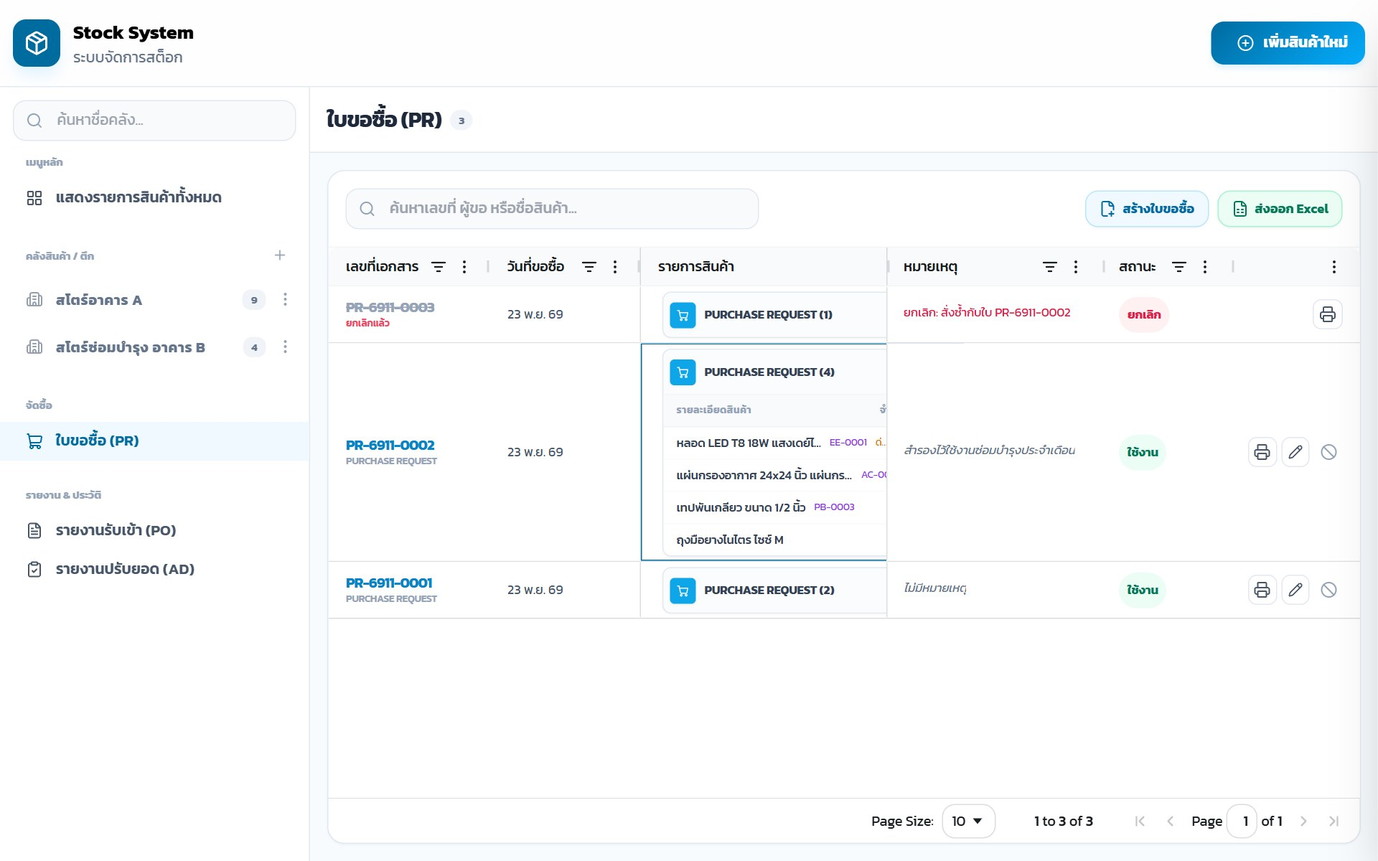
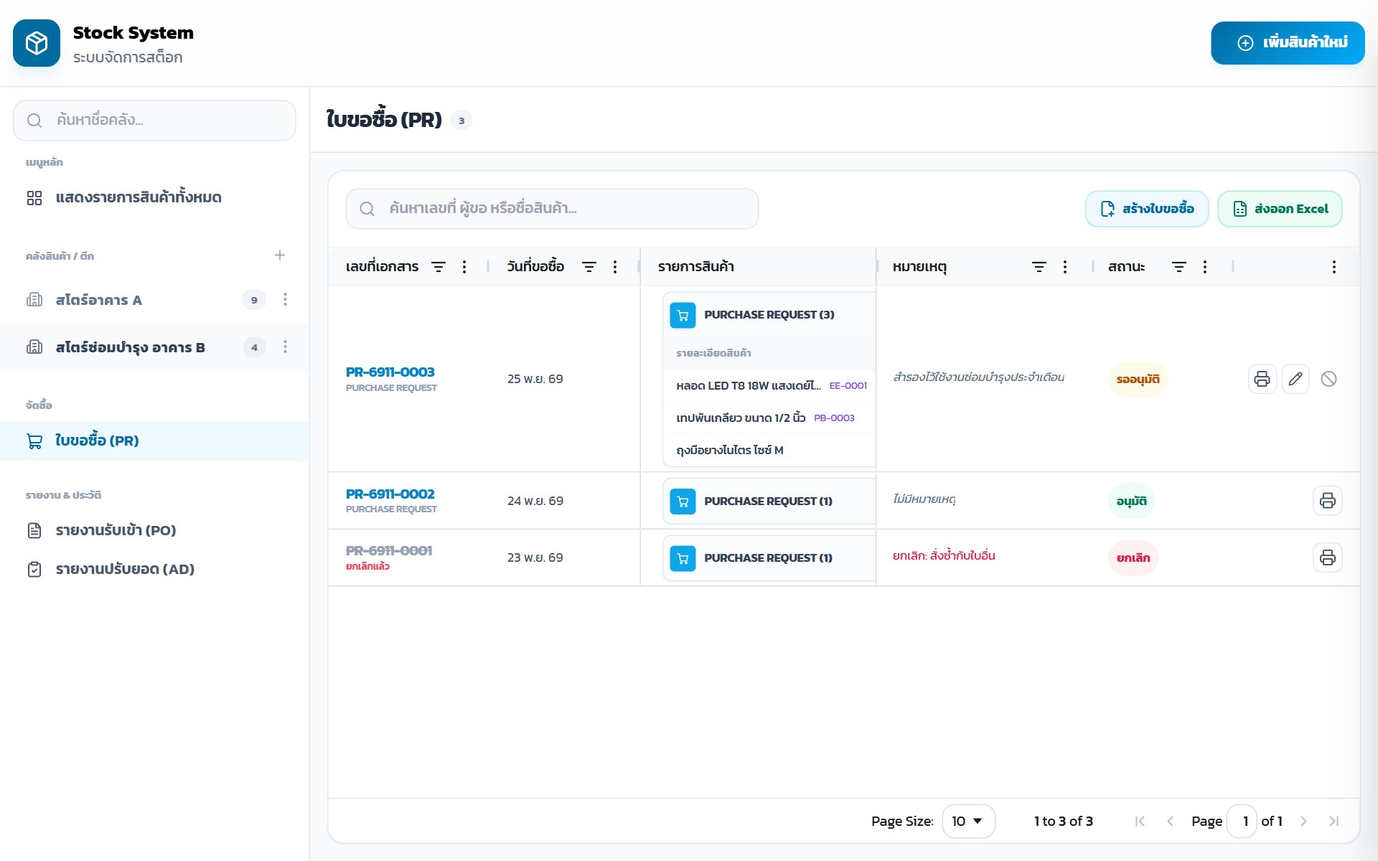
คู่มือใบขอซื้อ (PR): ลงนาม สถานะ รออนุมัติ/อนุมัติ/ยกเลิก การล็อกหลังอนุมัติ และมือถือ

diff --git a/tutorial.php b/tutorial.php
@@ -1278,7 +1278,7 @@ const MODULES = [
     },
     {
         id: 'stock_pr', title: 'ใบขอซื้อ (PR)', perm: 'stock_manage', href: 'stock.php',
-        intro: 'ออก <b>ใบขออนุมัติจัดซื้อ</b> จากสินค้าในสต็อก (หรือของที่ยังไม่มีในสต็อก) ระบบออกเลขที่ <b>PR-ปีเดือน-ลำดับ</b> ให้ เช่น PR-6911-0001 (ปี พ.ศ. 69 เดือน 11) แล้วพิมพ์ไปให้ผู้อนุมัติลงนาม',
+        intro: 'ออก <b>ใบขออนุมัติจัดซื้อ</b> จากสินค้าในสต็อก (หรือของที่ยังไม่มีในสต็อก) ระบบออกเลขที่ <b>PR-ปีเดือน-ลำดับ</b> ให้ เช่น PR-6911-0001 (ปี พ.ศ. 69 เดือน 11) ผู้ขอและผู้อนุมัติ<b>ลงนามในระบบ</b>ได้ หรือพิมพ์ไปเซ็นบนกระดาษ',
         parts: [
         { title: '1. เลือกสินค้าที่จะขอซื้อ', shot: 'stock_select', steps: [
             { m: 1, t: 'ที่ <b>แสดงรายการสินค้าทั้งหมด</b> หรือคลังใดก็ได้ ติ๊ก <b>วงกลมหน้าสินค้า</b> ที่ต้องการ — สินค้าเดียวกันที่ติ๊กจากหลายคลังจะรวมเป็นบรรทัดเดียว' },
@@ -1292,39 +1292,63 @@ const MODULES = [
             { m: 4, t: 'รายการ <b>นอกสต็อก</b> (การ์ดสีเหลือง) — แก้ชื่อ รหัส หน่วย จำนวนได้ในการ์ด' },
             { m: 5, t: '<b>เพิ่มรายการ</b> — เลือกแท็บ <b>สินค้าในสต็อก</b> (ของที่มีในระบบ) หรือ <b>นอกสต็อก</b> (ของที่ยังไม่มีในระบบ: กรอกชื่อรายการ (จำเป็น) รหัส หน่วย จำนวน แล้วกด <span class="kbd">+ เพิ่ม</span> หรือ Enter)' },
             { m: 6, t: 'แท็บสินค้าในสต็อก: <b>พิมพ์รหัสหรือชื่อ</b> แล้วกดรายการที่ต้องการ (หรือกด Enter เลือกรายการแรก) — เพิ่มต่อได้หลายรายการ' },
-            { m: 7, t: '<b>ผู้ขอซื้อ/ขอจ้าง</b> — ระบบเติมชื่อที่ใช้ล่าสุดให้ แก้ได้' },
+            { m: 7, t: '<b>ผู้ขอซื้อ/ขอจ้าง</b> — กรอก<b>ชื่อ-นามสกุล</b> (ระบบเติมชื่อที่ใช้ล่าสุดให้ แก้ได้)' },
             { m: 8, t: '<b>ผู้อนุมัติ</b> — เลือกจากรายชื่อที่ผู้ดูแลระบบตั้งไว้ (มีคนเดียวระบบเลือกให้ หลายคนเลือกคนล่าสุดที่ใช้) หรือ <b>ไม่ระบุ</b> · ช่องนี้ไม่แสดงถ้ายังไม่ได้ตั้งผู้อนุมัติ' },
-            { m: 9, t: 'ใส่หมายเหตุ (ถ้ามี) แล้วกด <span class="kbd">บันทึก</span> — ระบบออกเลขที่ และพิมพ์ได้จากเมนูใบขอซื้อ' }
+            { m: 9, t: 'ใส่หมายเหตุ (ถ้ามี) แล้วกด <span class="kbd">บันทึก</span> — ระบบออกเลขที่ สถานะเป็น <b>รออนุมัติ</b> เปิดใบเพื่อลงนามหรือพิมพ์ได้จากเมนูใบขอซื้อ' }
         ] },
-        { title: '3. รายการใบขอซื้อ — พิมพ์ / แก้ไข / ยกเลิก', shot: 'stock_pr_list', steps: [
+        { title: '3. รายการใบขอซื้อ และสถานะ', shot: 'stock_pr_list', steps: [
             { m: 1, t: 'เมนู <b>จัดซื้อ → ใบขอซื้อ (PR)</b>' },
             { m: 2, t: '<span class="kbd">สร้างใบขอซื้อ</span> — ไปที่รายการสินค้าเพื่อเลือก' },
-            { m: 3, t: '<b>กรองที่หัวคอลัมน์</b> — กดไอคอนกรอง (≡) ที่หัวคอลัมน์ เช่น วันที่ขอซื้อ (วันที่ / ช่วงวันที่), รายการสินค้า (รหัส/ชื่อ), ผู้ขอซื้อ, สถานะ (ใช้งาน / ยกเลิก) · กดชื่อคอลัมน์เพื่อเรียงลำดับ · ช่องค้นหาด้านบนค้นได้ทั้งเลขที่ ผู้ขอ และชื่อสินค้า' },
+            { m: 3, t: '<b>กรองที่หัวคอลัมน์</b> — กดไอคอนกรอง (≡) ที่หัวคอลัมน์ เช่น วันที่ขอซื้อ (วันที่ / ช่วงวันที่), รายการสินค้า (รหัส/ชื่อ), ผู้ขอซื้อ, สถานะ (รออนุมัติ / อนุมัติ / ยกเลิก) · กดชื่อคอลัมน์เพื่อเรียงลำดับ · ช่องค้นหาด้านบนค้นได้ทั้งเลขที่ ผู้ขอ และชื่อสินค้า' },
             { m: 4, t: 'กดแถบ <b>PURCHASE REQUEST (n)</b> เพื่อดูรายการสินค้าและจำนวนที่ขอในใบนั้น' },
-            { m: 5, t: '<b>🖨 พิมพ์</b> — เปิดใบพิมพ์ในแท็บใหม่และขึ้นหน้าต่างสั่งพิมพ์ทันที · <b>✎ แก้ไข</b> — แก้วันที่ ผู้ขอ ผู้อนุมัติ หมายเหตุ เพิ่ม/เอารายการออก (ในสต็อกและนอกสต็อก) แก้จำนวน — เลขที่เดิม · <b>⊘ ยกเลิก</b> — ต้องระบุเหตุผล' },
-            { m: 6, t: 'ใบที่ยกเลิก — เลขที่ขีดฆ่า สถานะ <b>ยกเลิก</b> และแสดง <b>ยกเลิก: เหตุผล</b> ในช่องหมายเหตุ (ยังพิมพ์ได้ มีตรา "ยกเลิก")' },
+            { m: 5, t: '<b>🖨</b> — เปิดใบในแท็บใหม่ เลือกเองว่าจะ<b>ลงนาม</b>หรือ<b>พิมพ์</b> (หัวข้อ 4) · <b>✎ แก้ไข</b> — แก้วันที่ ผู้ขอ ผู้อนุมัติ หมายเหตุ และรายการ เลขที่เดิม · <b>⊘ ยกเลิก</b> — ต้องระบุเหตุผล' },
+            { m: 6, t: '<b>สถานะ</b> — <span class="text-amber-700 font-semibold">รออนุมัติ</span> = ผู้อนุมัติยังไม่ลงนาม · <span class="text-emerald-700 font-semibold">อนุมัติ</span> = ผู้อนุมัติลงนามแล้ว · <span class="text-rose-600 font-semibold">ยกเลิก</span> = เลขที่ขีดฆ่า แสดงเหตุผลในช่องหมายเหตุ (ยังพิมพ์ได้ มีตรา "ยกเลิก")' },
+            { m: 8, t: 'ใบที่<b>อนุมัติแล้ว แก้ไขและยกเลิกไม่ได้</b> เหลือปุ่มเปิดใบอย่างเดียว' },
             { m: 7, t: '<span class="kbd">ส่งออก Excel</span> — รายการใบขอซื้อตามตัวกรอง (รายการสินค้า สถานะ และเหตุผลที่ยกเลิก)' }
         ] },
         { title: 'บนมือถือ', shot: 'stock_pr_m', steps: [
             { m: 1, t: 'กด <b>ชื่อหน้า ▾</b> แล้วเลือก <b>ใบขอซื้อ (PR)</b> — ปุ่มข้างช่องค้นหาคือ สร้างใบขอซื้อ และส่งออก Excel' },
-            { m: 2, t: 'แต่ละใบเป็นการ์ด แสดงรายการสินค้าและจำนวนที่ขอ' },
-            { m: 3, t: '<b>✎ แก้ไข</b> · <b>⊘ ยกเลิก</b> · <b>🖨 พิมพ์</b> (เปิดใบพิมพ์ในแท็บใหม่)' },
-            { m: 4, t: 'ใบที่ยกเลิก — สีจาง เลขที่ขีดฆ่า และแสดงเหตุผลที่ยกเลิก' }
+            { m: 2, t: '<b>สถานะ</b> — รออนุมัติ / อนุมัติ / ยกเลิก' },
+            { m: 3, t: 'รายการสินค้าและจำนวนที่ขอ' },
+            { m: 4, t: '<b>✎ แก้ไข</b> · <b>⊘ ยกเลิก</b> (เฉพาะใบที่รออนุมัติ) · <b>🖨</b> เปิดใบเพื่อลงนามหรือพิมพ์' }
         ] },
-        { title: '4. ใบพิมพ์', shot: 'stock_pr_print', steps: [
+        { title: '4. เปิดใบ — เลือกลงนามหรือพิมพ์', shot: 'stock_pr_open', steps: [
+            { m: 1, t: '<b>สถานะ</b>ของใบ' },
+            { m: 2, t: '<span class="kbd">เซ็นผู้ขอซื้อ</span>' },
+            { m: 3, t: '<span class="kbd">เซ็นผู้อนุมัติ</span> — ปุ่มเซ็นแสดงเฉพาะช่องที่คุณมีสิทธิ์และยังไม่ได้เซ็น' },
+            { m: 4, t: '<span class="kbd">พิมพ์</span> — เปิดหน้าต่างสั่งพิมพ์' },
+            { m: 5, t: 'กด <span class="kbd">ลงนาม</span> ในช่องลงนามท้ายใบก็ได้' }
+        ] },
+        { title: '5. ลงลายเซ็น', shot: 'stock_pr_sign', steps: [
+            { m: 1, t: '<b>ชื่อ-นามสกุล</b> — ต้องมีทั้งชื่อและนามสกุล (เว้นวรรคคั่น) · ผู้อนุมัติที่บัญชีมีนามสกุลแล้ว ช่องนี้ล็อกเป็นชื่อในบัญชี' },
+            { m: 2, t: '<b>เซ็น</b>ด้วยนิ้วหรือเมาส์' },
+            { m: 3, t: '<span class="kbd">ล้าง</span> — เซ็นใหม่' },
+            { m: 4, t: '<span class="kbd">บันทึกลายเซ็น</span> — ลายเซ็นและวันที่ขึ้นในใบทันที ผู้อนุมัติเซ็นแล้ว สถานะเป็น <b>อนุมัติ</b>' }
+        ] },
+        { title: '6. ใบที่ลงนามแล้ว', shot: 'stock_pr_print', steps: [
             { m: 1, t: '<b>เลขที่เอกสาร</b> PR-ปีเดือน-ลำดับ' },
             { m: 2, t: 'วันที่เอกสาร จัดส่งภายในวันที่ ผู้ขอซื้อ และจำนวนรายการ' },
             { m: 3, t: '<b>ตาราง</b> รหัสสินค้า รายการ จำนวน หน่วย หมายเหตุ — มีแถวว่างเติมให้เต็มหน้า A4 (รายการนอกสต็อกไม่มีรหัส)' },
-            { m: 4, t: '<b>ช่องลงนาม</b> ผู้ขอซื้อ/ขอจ้าง และผู้อนุมัติ พร้อมชื่อ อยู่ท้ายกระดาษ — ลายเซ็นและวันที่เว้นไว้ให้เซ็น (ไม่ระบุผู้อนุมัติ = เส้นประ)' },
-            { m: 5, t: '<span class="kbd">พิมพ์</span> — กดซ้ำได้ ถ้าปิดหน้าต่างสั่งพิมพ์ไปแล้ว' }
+            { m: 4, t: '<b>ช่องลงนาม</b> — ลายเซ็น ชื่อ-นามสกุล และวันที่ลงนาม (ยังไม่เซ็น = เว้นไว้ให้เซ็นบนกระดาษ)' },
+            { m: 5, t: '<b>อนุมัติ</b> — แก้ไขและยกเลิกไม่ได้แล้ว' },
+            { m: 6, t: '<span class="kbd">ลบลายเซ็น</span> — ลบลายเซ็นผู้อนุมัติ ใบจะกลับเป็น <b>รออนุมัติ</b> (เฉพาะผู้ที่เซ็น หรือ Super Admin)' }
+        ] },
+        { title: 'เปิดใบบนมือถือ', shot: 'stock_pr_sign_m', steps: [
+            { m: 1, t: '<b>สถานะ</b>ของใบ' },
+            { m: 2, t: 'รายการแสดงเป็นการ์ด — งานพิมพ์ยังเป็นแบบฟอร์ม A4' },
+            { m: 3, t: '<b>เซ็นผู้ขอซื้อ / เซ็นผู้อนุมัติ / พิมพ์</b> อยู่ล่างจอ' }
         ] }],
         table: { title: 'ใครทำอะไรได้', rows: [
             ['สร้างใบขอซื้อ', 'ทุกคนที่เข้าเมนูจัดการสต็อกได้ ยกเว้นตำแหน่งช่าง'],
-            ['แก้ไข / ยกเลิกใบ', 'ผู้สร้างใบ หรือผู้ดูแลระบบ (เฉพาะใบที่ยังไม่ยกเลิก)'],
+            ['แก้ไข / ยกเลิกใบ', 'ผู้สร้างใบ หรือผู้ดูแลระบบ — เฉพาะใบที่ <b>รออนุมัติ</b>'],
+            ['ลงนามผู้ขอซื้อ', 'ผู้สร้างใบ หรือผู้ดูแลระบบ (ตำแหน่งช่างไม่ได้)'],
+            ['ลงนามผู้อนุมัติ', 'คนที่ระบุในใบ · ใบไม่ระบุ = คนใดก็ได้ในรายชื่อผู้อนุมัติ PR · Super Admin เซ็นได้ แต่ชื่อผู้อนุมัติในใบเปลี่ยนเป็นผู้ที่เซ็น'],
+            ['ลบลายเซ็น', 'ผู้ที่เซ็นเอง หรือ Super Admin (อนุมัติแล้วต้องลบลายเซ็นผู้อนุมัติก่อน จึงลบของผู้ขอได้)'],
             ['ดู / พิมพ์ / ส่งออก Excel', 'ทุกคนที่เข้าเมนูจัดการสต็อกได้ รวมถึงตำแหน่งช่าง'],
             ['กำหนดรายชื่อผู้อนุมัติ', 'Super Admin — ตั้งค่าข้อมูล → อะไหล่และวัสดุ → ผู้อนุมัติ PR']
         ] },
         tips: ['ชื่อผู้อนุมัติเก็บไว้กับใบ — เปลี่ยนรายชื่อในตั้งค่าภายหลัง ใบที่บันทึกแล้วไม่เปลี่ยน · ใบเก่าที่ไม่เคยเลือกจะแสดงชื่อเมื่อตั้งผู้อนุมัติไว้คนเดียว ถ้ามีหลายคนให้กดแก้ไขใบแล้วเลือก',
+               'แก้ไขใบที่ผู้ขอเซ็นไว้แล้ว ลายเซ็นจะถูกล้าง ต้องเซ็นใหม่ · ใบที่ถูกแก้ระหว่างเปิดหน้าเซ็นค้างไว้ ต้องรีเฟรชก่อนลงนาม',
                'แก้ไขใบแล้ว <b>เลขที่เดิม</b> — ถ้าต้องการเลขใหม่ ให้ยกเลิกใบเดิม (ระบุเหตุผล) แล้วสร้างใบใหม่ · เลขที่ของใบที่ยกเลิกจะไม่ถูกนำกลับมาใช้',
                'ขอซื้อของที่ยังไม่มีในสต็อกได้ที่แท็บ <b>นอกสต็อก</b> ในกล่องเพิ่มรายการ — ถ้าจะใช้ประจำ แนะนำให้ <b>เพิ่มสินค้าใหม่</b> เข้าสต็อกก่อน จะได้เห็นคงเหลือและจุดสั่งซื้อ',
                'ใบพิมพ์มี วันที่ / ชื่อหน้า / URL ที่ขอบกระดาษ — เป็นหัวท้ายกระดาษของเบราว์เซอร์ ปิดได้ที่หน้าต่างสั่งพิมพ์ → More settings → เอาติ๊ก <b>Headers and footers</b> ออก',
@@ -1646,9 +1670,11 @@ const FAQ = [
     ['งาน PM', 'ผู้ตรวจรับ PM กับผู้ประเมิน PM ต่างกันอย่างไร', '<b>ผู้ตรวจรับ</b> ตรวจงานที่ช่างบันทึก แล้วรับงานหรือส่งกลับแก้ไข (งานจะนับว่าเสร็จเมื่อตรวจรับ) · <b>ผู้ประเมิน</b> ให้คะแนน 1–5 กับงานที่เสร็จแล้ว', 'pm_approve'],
     ['งาน PM', 'บันทึกผล PM แล้ว แต่งานยังไม่ขึ้นว่าเสร็จ', 'ถ้าสถานะเป็น <b>รอตรวจรับ</b> แสดงว่าหน่วยงานเปิดขั้นตรวจรับ งานจะเสร็จเมื่อหัวหน้าช่างกดตรวจรับ', 'pm_approve'],
     ['งาน PM', 'งาน PM ที่บันทึกแล้วกลับมาเป็นยังไม่ทำ', 'อาจถูกส่งกลับแก้ไขหรือยกเลิกผลบันทึก — เปิดใบงานจะเห็นเหตุผล แล้วตรวจและบันทึกใหม่ (ใช้เลขที่เอกสารเดิม)', 'pm_approve'],
-    ['มิเตอร์และสต็อก', 'แก้ไขหรือยกเลิกใบขอซื้อไม่ได้', 'ทำได้เฉพาะผู้สร้างใบหรือผู้ดูแลระบบ และใบต้องยังไม่ถูกยกเลิก', 'stock_pr'],
+    ['มิเตอร์และสต็อก', 'แก้ไขหรือยกเลิกใบขอซื้อไม่ได้', 'ทำได้เฉพาะผู้สร้างใบหรือผู้ดูแลระบบ และใบต้องเป็นสถานะ <b>รออนุมัติ</b> — ใบที่อนุมัติแล้วต้องให้ผู้อนุมัติ (หรือ Super Admin) ลบลายเซ็นผู้อนุมัติก่อน', 'stock_pr'],
     ['มิเตอร์และสต็อก', 'เปลี่ยนรายชื่อผู้อนุมัติ PR แล้ว ใบเก่าเปลี่ยนตามไหม', 'ใบที่เลือกผู้อนุมัติไว้แล้วไม่เปลี่ยน · ใบเก่าที่ไม่เคยเลือกจะแสดงชื่อเมื่อตั้งผู้อนุมัติไว้คนเดียว', 'stock_pr'],
-    ['มิเตอร์และสต็อก', 'กดอนุมัติใบขอซื้อในระบบได้ไหม', 'ยังไม่ได้ — ระบบใส่ชื่อผู้อนุมัติในใบพิมพ์ แล้วเซ็นอนุมัติบนกระดาษ', 'stock_pr'],
+    ['มิเตอร์และสต็อก', 'กดอนุมัติใบขอซื้อในระบบได้ไหม', 'ได้ — เปิดใบจากไอคอน 🖨 แล้วกด <b>เซ็นผู้อนุมัติ</b> สถานะจะเป็น <b>อนุมัติ</b> (ต้องเป็นผู้อนุมัติของใบนั้น)', 'stock_pr'],
+    ['มิเตอร์และสต็อก', 'ชื่อในช่องลงนามใบขอซื้อไม่มีนามสกุล', 'ให้ผู้ดูแลระบบเติมนามสกุลของบัญชีที่หน้าตั้งค่าผู้ใช้งาน (กรณีชื่อในใบตรงกับชื่อบัญชี) หรือลบลายเซ็นแล้วเซ็นใหม่ โดยกรอกชื่อ-นามสกุลให้ครบ', 'stock_pr'],
+    ['มิเตอร์และสต็อก', 'เปิดใบขอซื้อแล้วไม่มีปุ่มเซ็น', 'ปุ่มแสดงเฉพาะช่องที่มีสิทธิ์และยังไม่ได้เซ็น — ผู้อนุมัติต้องเป็นคนที่ระบุในใบ หรืออยู่ในรายชื่อผู้อนุมัติ PR (กรณีใบไม่ระบุ) และใบต้องไม่ถูกยกเลิก', 'stock_pr'],
     ['มิเตอร์และสต็อก', 'ใบพิมพ์มีวันที่ / URL ที่ขอบกระดาษ', 'เป็นหัวท้ายกระดาษของเบราว์เซอร์ ปิดได้ที่หน้าต่างสั่งพิมพ์ → More settings → เอาติ๊ก <b>Headers and footers</b> ออก', 'stock_pr'],
     ['สัญญาหน่วยงาน', 'แก้วันเริ่ม / วันสิ้นสุดในฟอร์มหน่วยงานไม่ได้', 'วันที่ของหน่วยงานมาจากรอบสัญญาล่าสุด ให้แก้ที่ <b>ประวัติสัญญา</b>', 'agency_contract', SUPER],
     ['สัญญาหน่วยงาน', 'ต่อสัญญาแล้วต้องกดบันทึกข้อมูลของฟอร์มอีกไหม', 'ไม่ต้อง — กดบันทึกในหน้าต่างรอบสัญญาแล้วมีผลทันที', 'agency_contract', SUPER],
